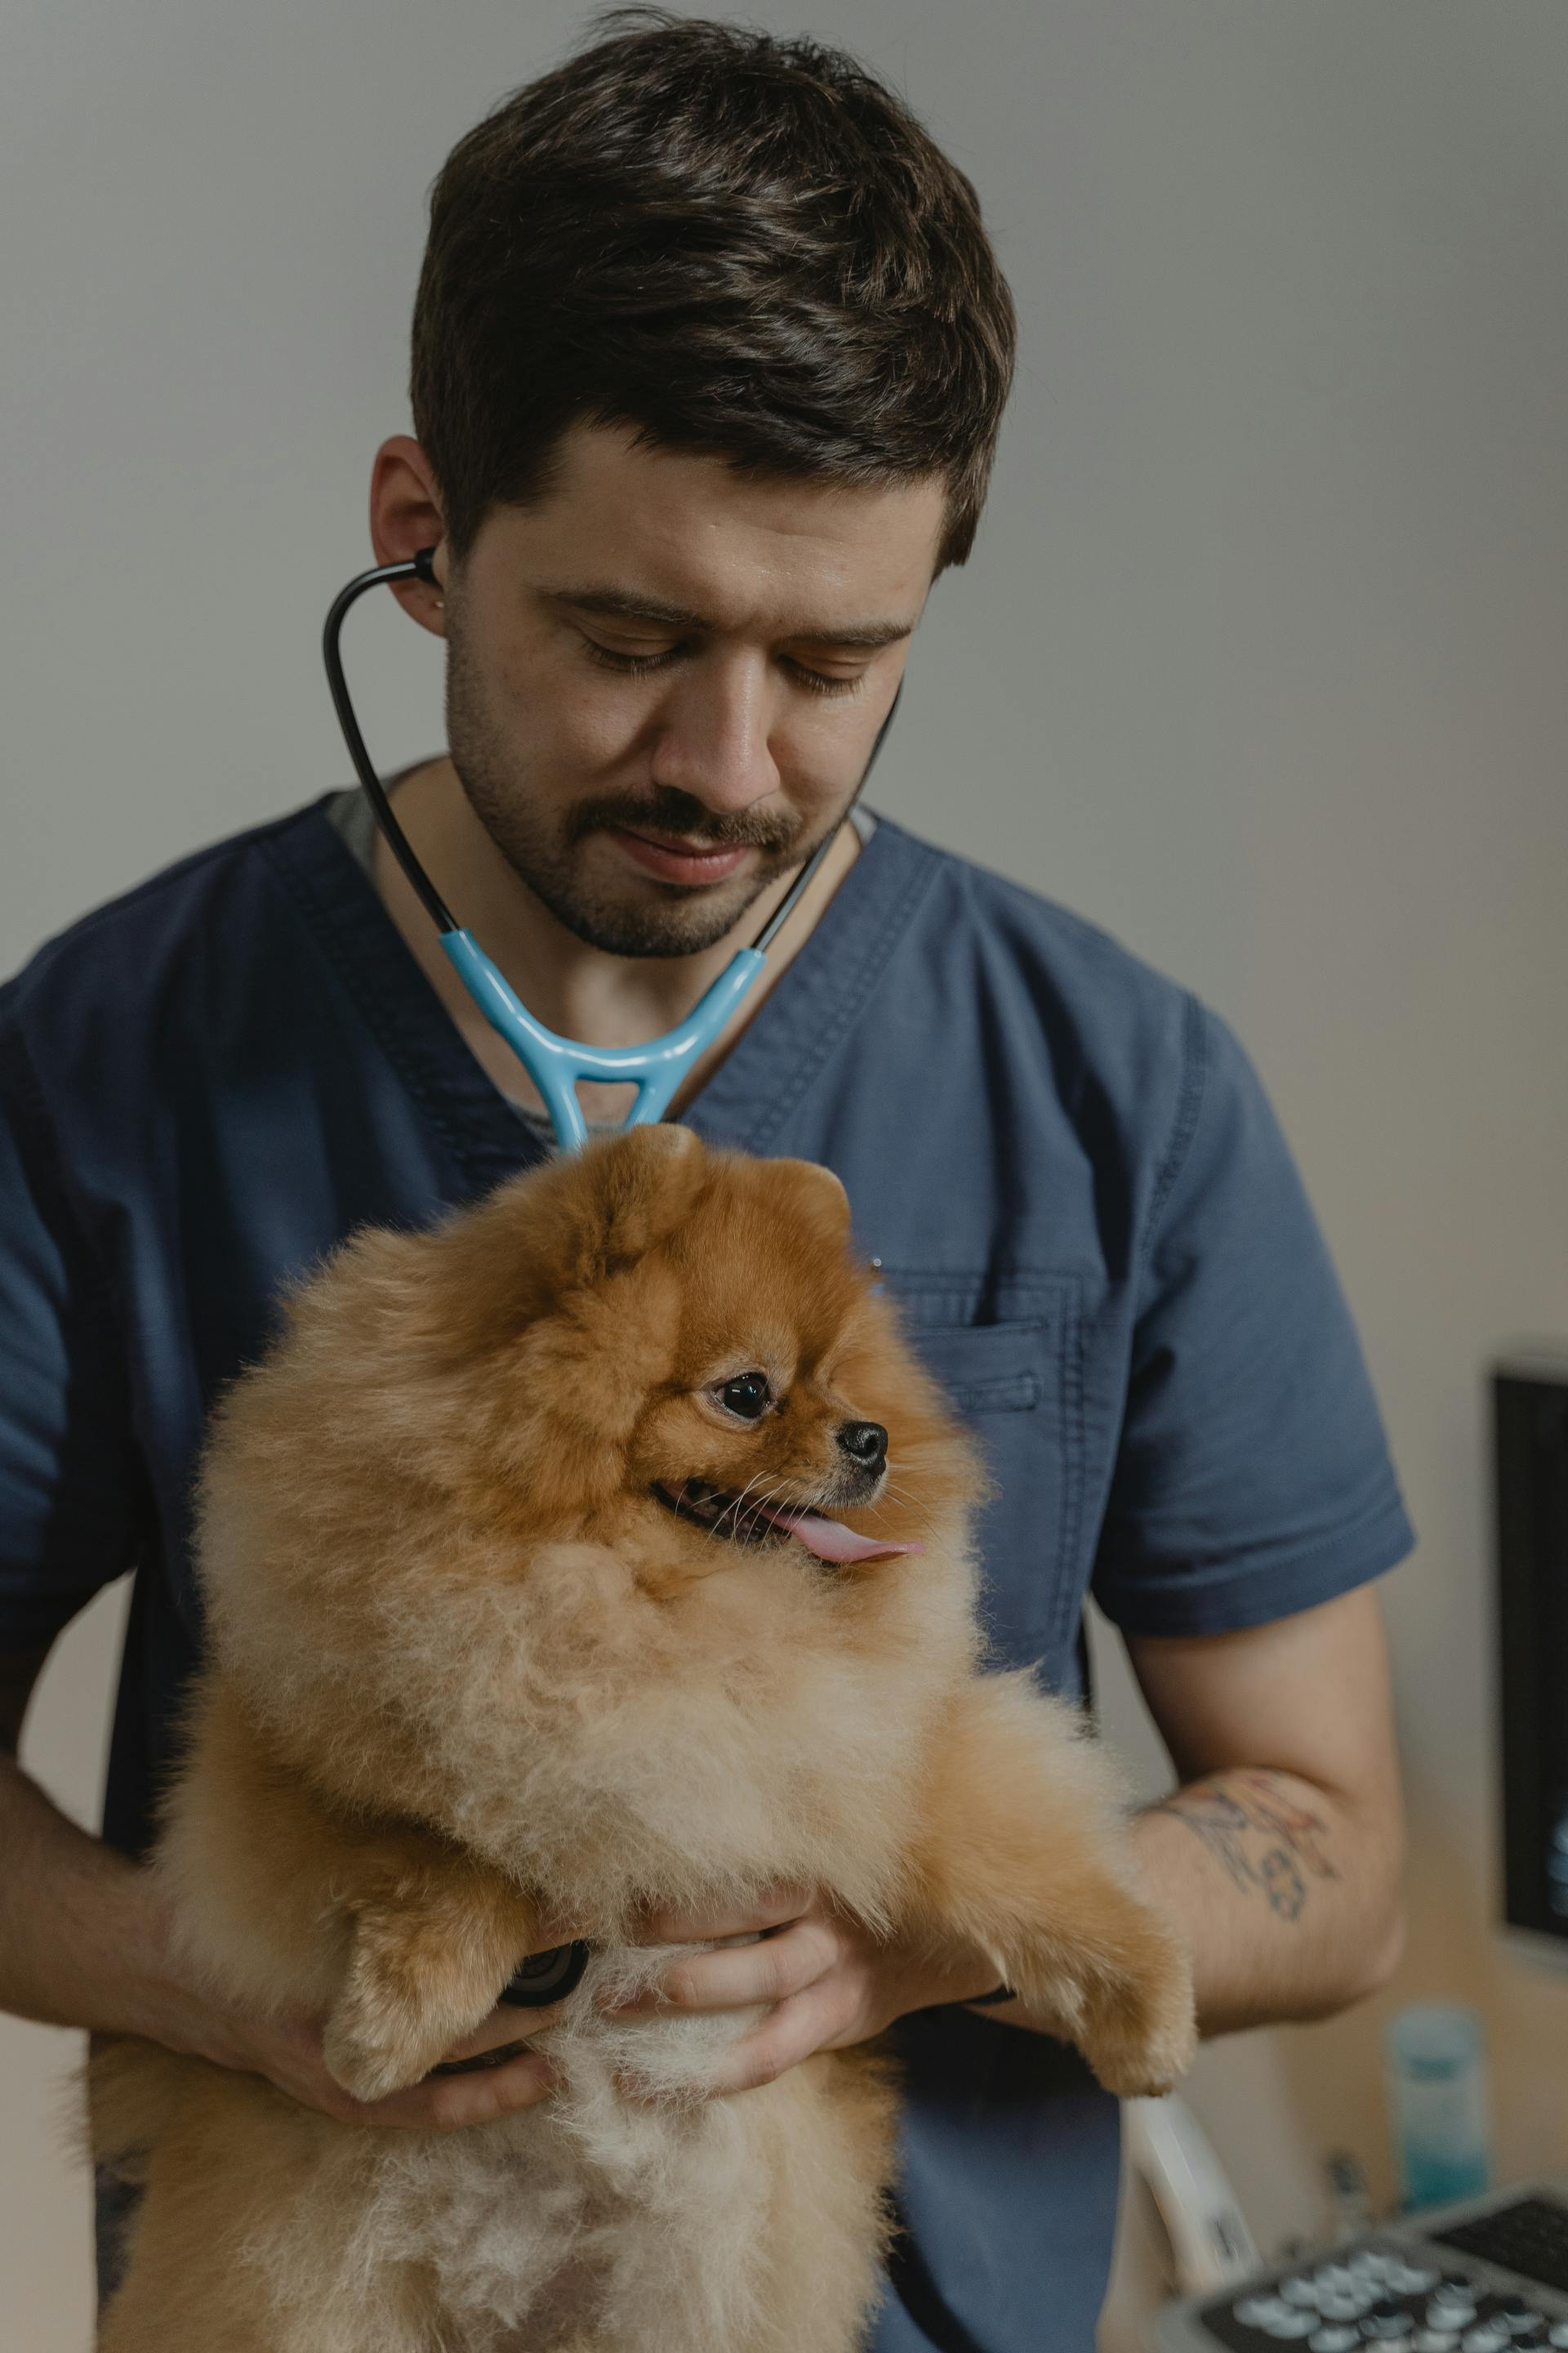
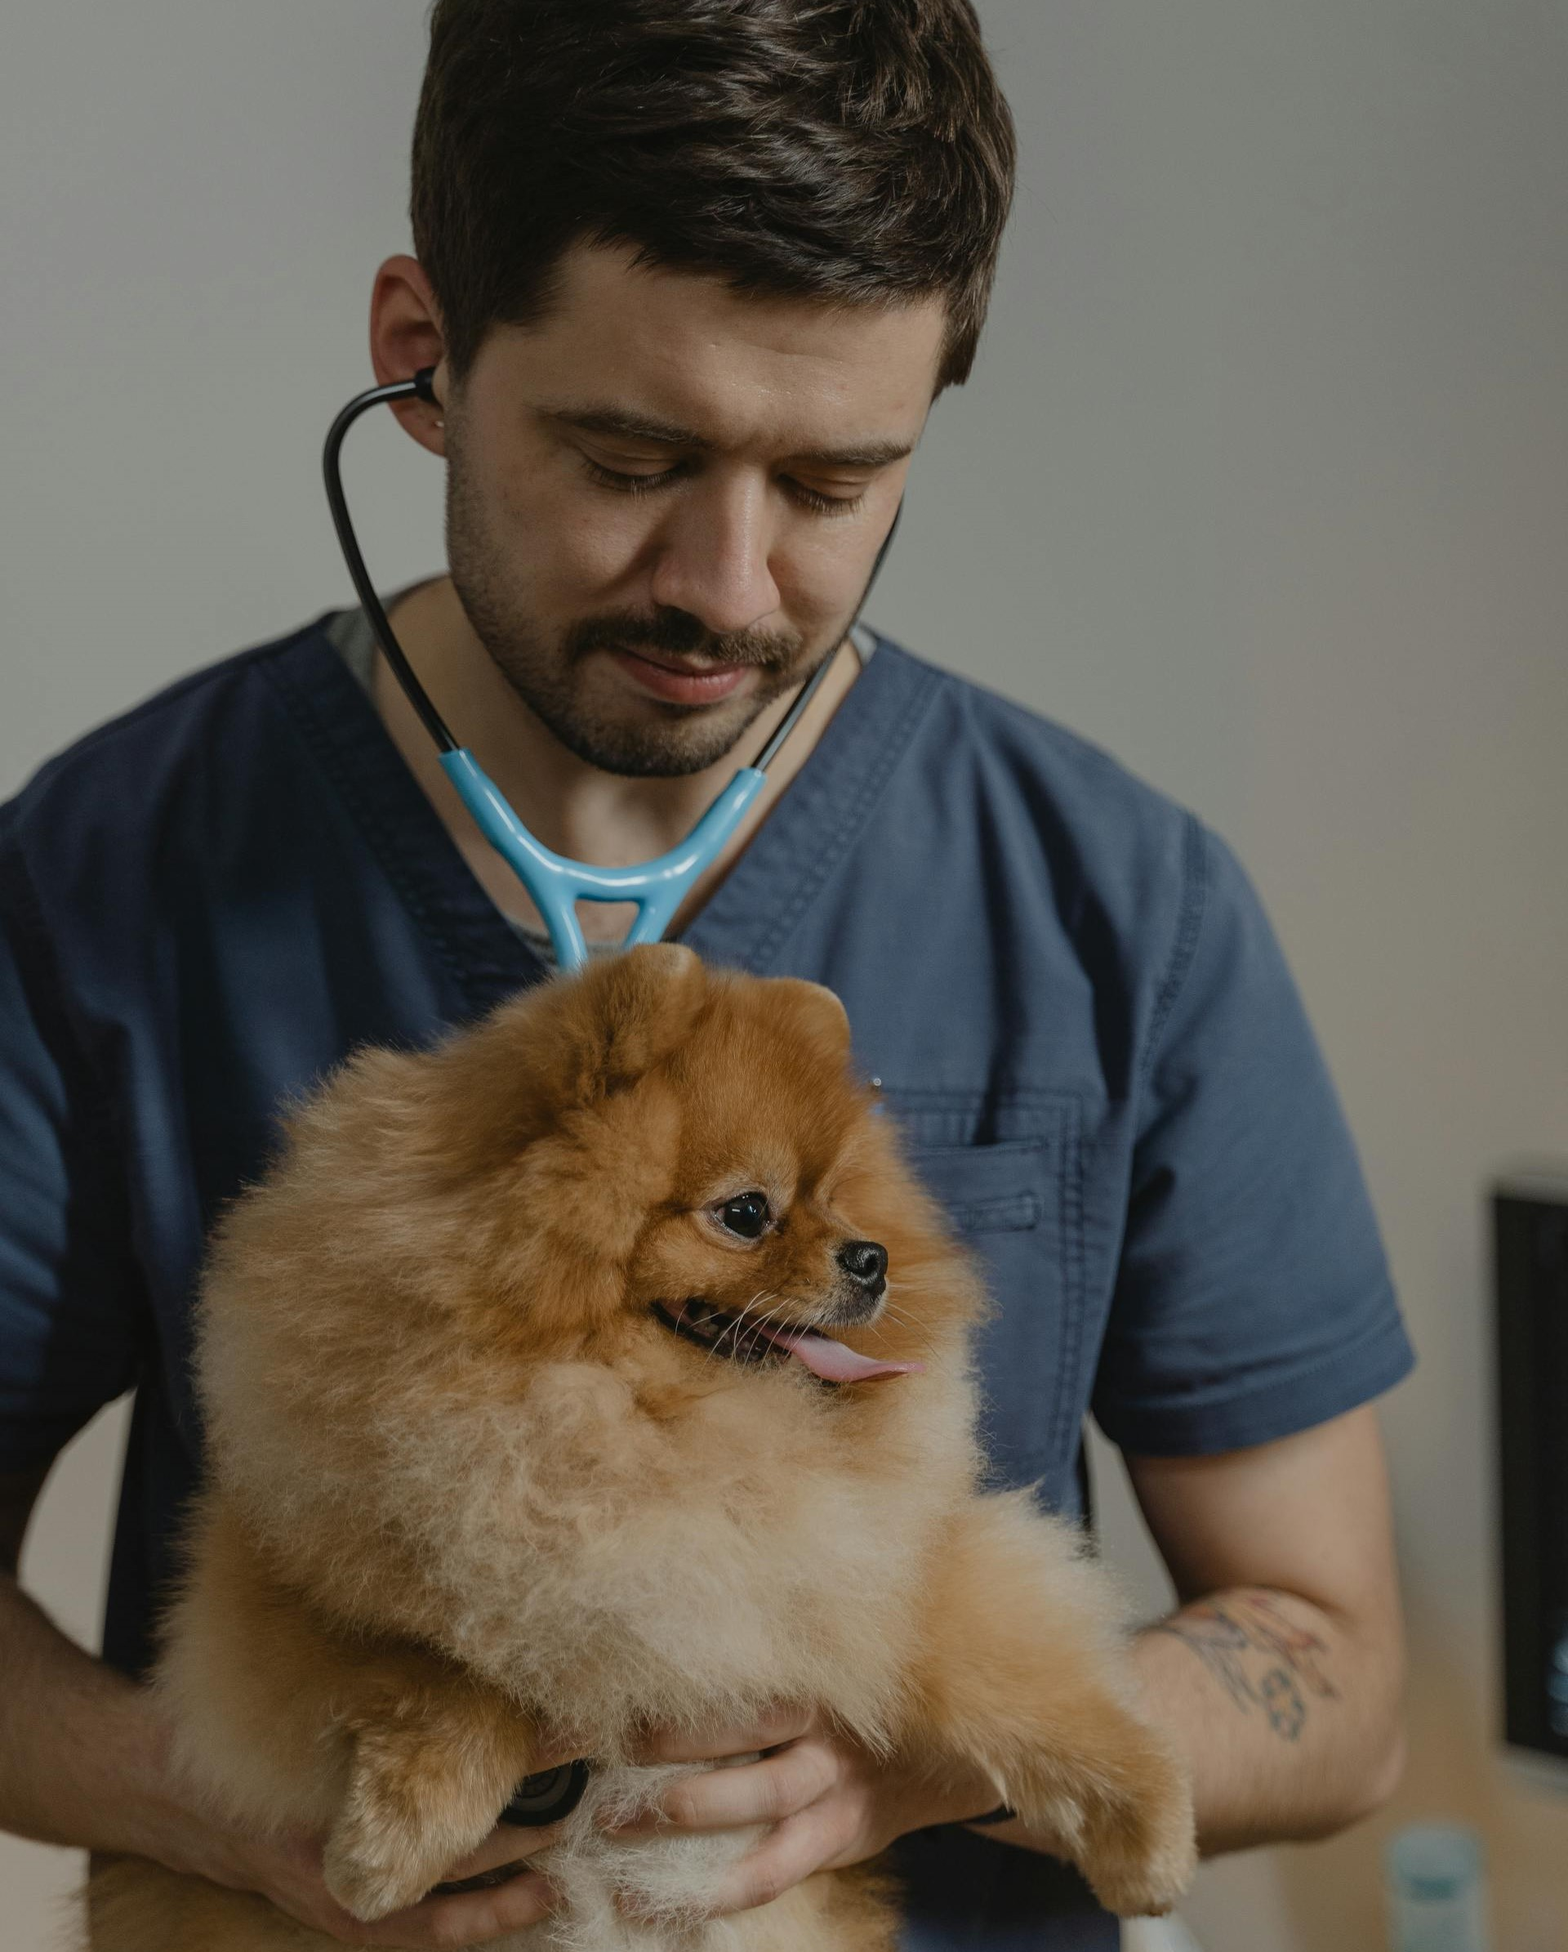
landing page ui.

diff --git a/frontend/src/pages/LandingPage.jsx b/frontend/src/pages/LandingPage.jsx
@@ -22,7 +22,7 @@ function LandingPage() {
           <img src={Logo} alt="logo" className='w-[60px] h-[60px] md:w-[80px] md:h-[80px] lg:w-[100px] lg:h-[100px]'/>
           <Button txtContent={"Login"} style={'h-fit py-2'} onClickFunc={redirectLoginPage}/>
       </nav>
-      <section className={`h-full w-full bg-[url('/assets/herobg.jpg')] bg-cover bg-bottom bg-no-repeat`}>
+      <section className={`h-full w-full bg-[url('/assets/herobg.jpg')] bg-cover bg-center bg-no-repeat`}>
         <section className='px-10 xl:px-24 xxl:px-32 xxxl:px-60 h-[70vh] lg:h-[75vh] w-screen flex flex-col justify-end'>
           <h5 className='font-instrument-sans text-headline-xtrasm md:text-headline-md lg:text-headline-lrg xxxl:text-headline-xtralrg text-[#fff] font-bold'>
             Serving the <b className='text-lime-green font-instrument-sans'>health and well-being</b> <br></br> of our nation's animals
